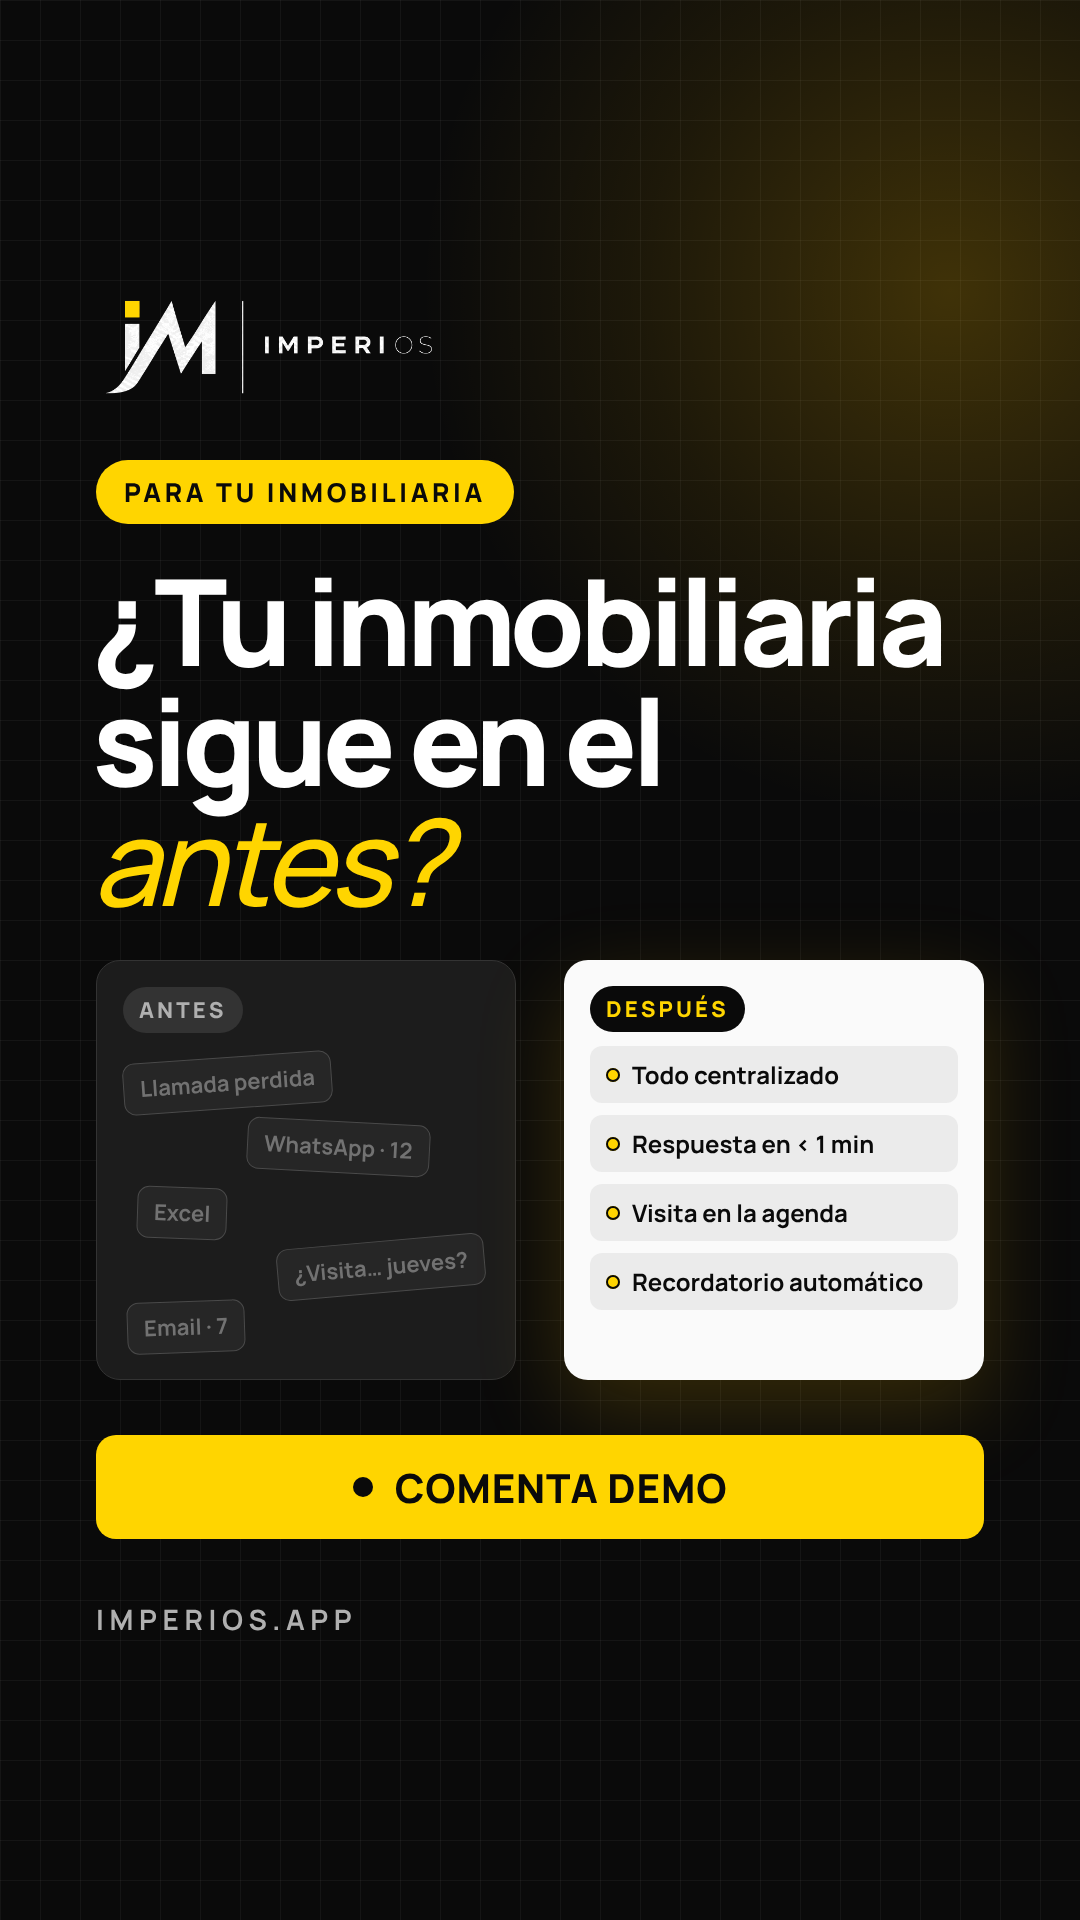
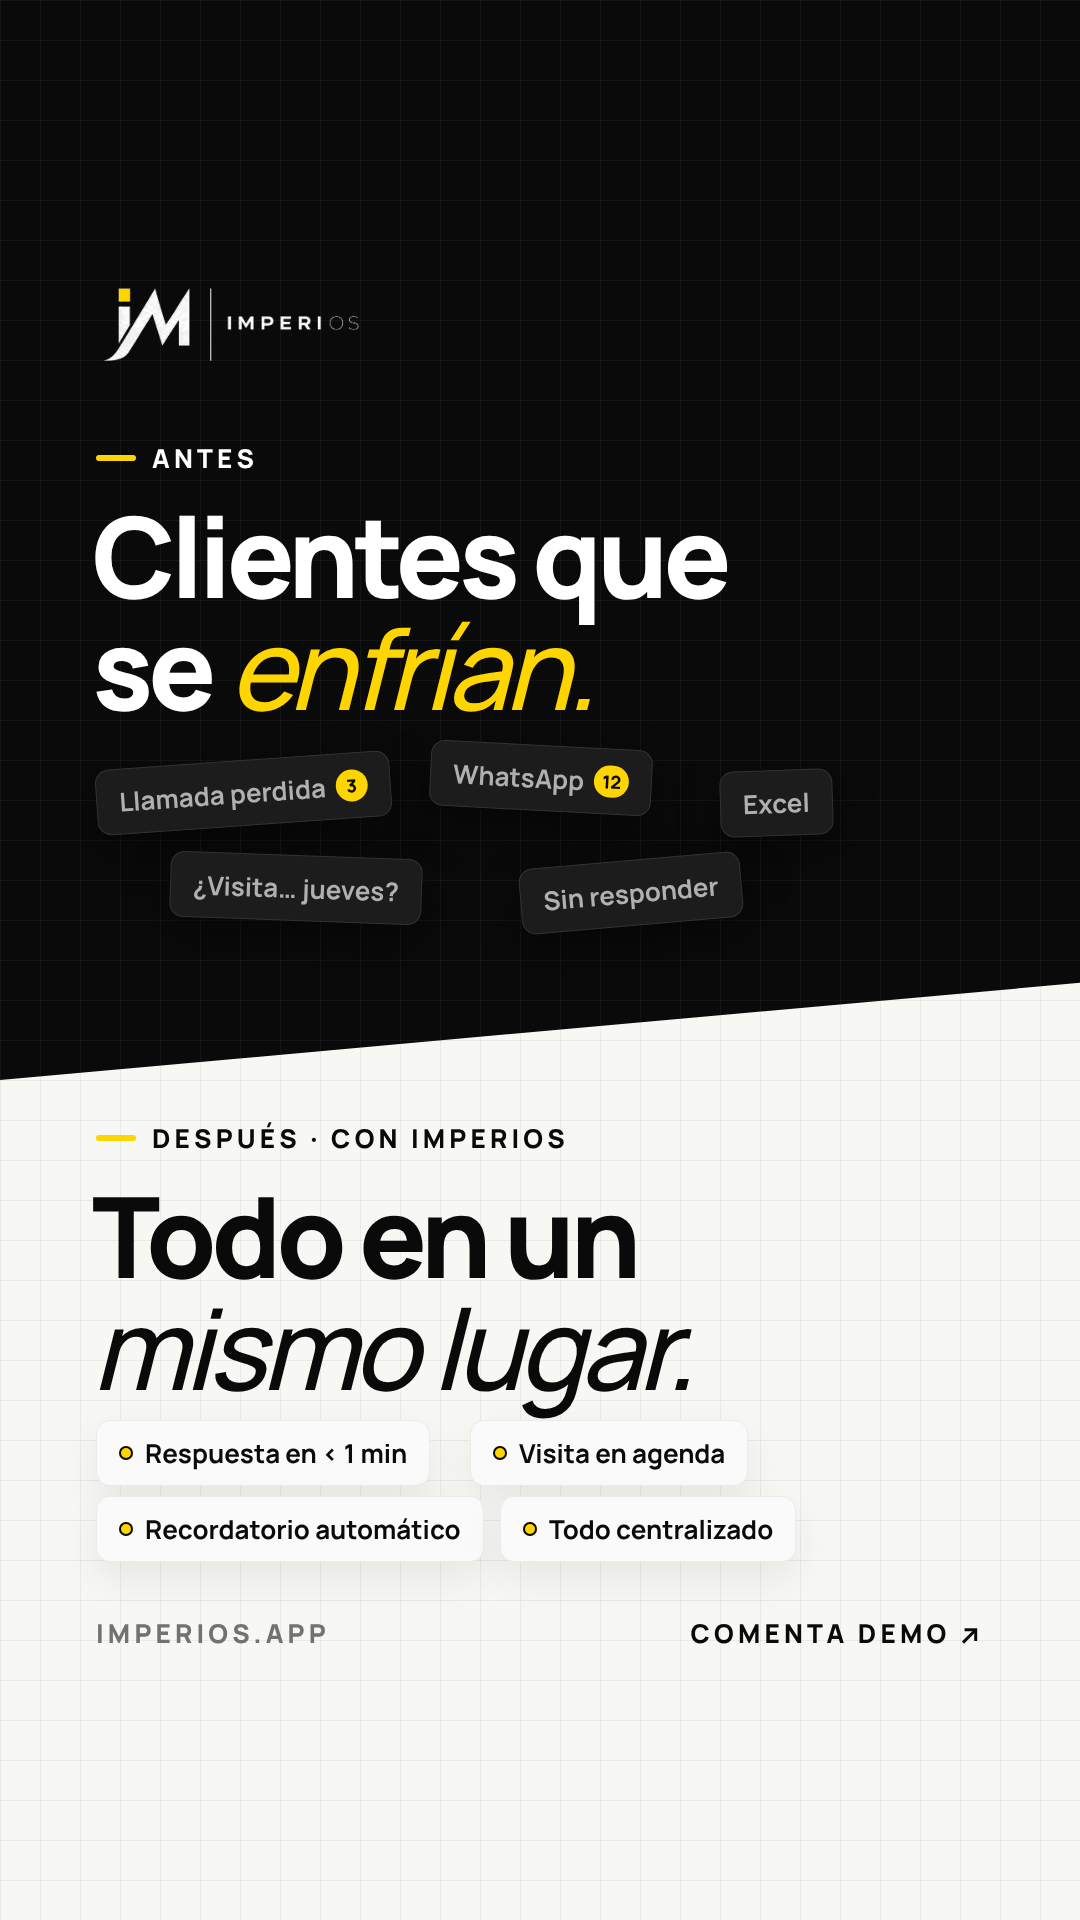
R6: portada nueva, antes oscuro / después claro con corte en diagonal (como el carrusel del feed)
Claude-Session: https://claude.ai/code/session_01GUwAx98LwDLChJJ4cX9B1a

diff --git a/ADV/ImperiOS Ad/preview/src/portada-r6.html b/ADV/ImperiOS Ad/preview/src/portada-r6.html
@@ -2,62 +2,58 @@
 <html lang="es">
 <head>
 <meta charset="utf-8">
-<title>Portada Reel — R6 Antes / después (oscura)</title>
-<!-- Portada 1080×1920 del Reel R6 en versión oscura, como la plantilla vertical-portada del kit de marca
-     (fondo negro, logo en blanco con la «i» amarilla, cursiva en amarillo #FFD500; brillo #FFC000 con transparencia).
-     Todo lo importante dentro del recorte 3:4 de la cuadrícula del perfil (y 240–1680). -->
+<title>Portada Reel — R6 Antes / después</title>
+<!-- Portada 1080×1920 del Reel R6. Mismo lenguaje que el carrusel del feed «¿Cansado de saltar entre herramientas?»:
+     arriba oscuro (el ANTES), corte en diagonal, abajo claro (el DESPUÉS con ImperiOS).
+     Logo en blanco sobre el negro; amarillo sólido #FFD500. Todo dentro del recorte 3:4 de la cuadrícula (y 240–1680). -->
 <style>
 @font-face { font-family: "Manrope"; src: url("manrope-latin-variable.woff2") format("woff2"); font-weight: 200 800; }
-:root { --ink-950:#0A0A0A; --ink-900:#1C1C1C; --ink-800:#333; --ink-500:#B0B0B0; --ink-700:#4A4A4A; --ink-600:#727272; --ink-300:#D4D4D4; --ink-200:#EBEBEB; --ink-100:#F7F7F3; --ink-50:#FAFAFA; --y:#FFD500; }
+:root { --ink-950:#0A0A0A; --ink-900:#1C1C1C; --ink-800:#333; --ink-700:#4A4A4A; --ink-600:#727272; --ink-500:#B0B0B0;
+  --ink-300:#D4D4D4; --ink-200:#EBEBEB; --ink-100:#F7F7F3; --ink-50:#FAFAFA; --y:#FFD500; }
 * { box-sizing: border-box; margin: 0; padding: 0; }
 html, body { width: 1080px; height: 1920px; overflow: hidden; }
-body { font-family: "Manrope", sans-serif; -webkit-font-smoothing: antialiased; position: relative; background: var(--ink-950); color: #fff; }
+body { font-family: "Manrope", sans-serif; -webkit-font-smoothing: antialiased; position: relative; background: var(--ink-100); color: var(--ink-950); }
 .abs { position: absolute; }
-.grid { position: absolute; inset: 0; background-image: linear-gradient(to right, rgba(255,255,255,.045) 1px, transparent 1px), linear-gradient(to bottom, rgba(255,255,255,.045) 1px, transparent 1px); background-size: 40px 40px; }
-.glow { position: absolute; right: -420px; top: -260px; width: 1100px; height: 1100px; border-radius: 50%; background: radial-gradient(circle, rgba(255,192,0,.22) 0, rgba(255,192,0,.08) 40%, rgba(255,192,0,0) 68%); }
-.logo { left: 96px; top: 290px; }
-.logo img { display: block; height: 110px; }
-.tag { left: 96px; top: 460px; display: inline-flex; padding: 14px 28px; border-radius: 999px; background: var(--y); color: var(--ink-950); font-weight: 800; font-size: 26px; letter-spacing: .14em; }
-h1 { position: absolute; left: 92px; top: 560px; right: 60px; font-weight: 800; font-size: 120px; line-height: 1.0; letter-spacing: -.045em; }
-h1 em { font-style: italic; font-weight: 500; color: var(--y); }
-.col { position: absolute; top: 960px; width: 420px; height: 420px; border-radius: 24px; padding: 26px; }
-.col .t { display: inline-block; padding: 8px 16px; border-radius: 999px; font-weight: 800; font-size: 22px; letter-spacing: .14em; }
-.mess { position: absolute; padding: 10px 16px; border-radius: 12px; background: #262626; border: 1.5px solid var(--ink-700); font-weight: 700; font-size: 22px; color: var(--ink-600); white-space: nowrap; }
-.ok { display: flex; align-items: center; gap: 12px; padding: 12px 16px; border-radius: 12px; background: var(--ink-200); font-weight: 700; font-size: 24px; color: var(--ink-950); margin-top: 12px; }
-.ok i { width: 14px; height: 14px; border-radius: 50%; background: var(--y); flex: none; box-shadow: 0 0 0 2px var(--ink-950) inset; }
-.panel { left: 96px; right: 96px; top: 1435px; height: 104px; border-radius: 20px; background: var(--y); color: var(--ink-950);
-  display: flex; align-items: center; justify-content: center; gap: 22px; font-weight: 800; font-size: 40px; letter-spacing: .02em; }
-.panel i { width: 20px; height: 20px; border-radius: 50%; background: var(--ink-950); }
-.web { left: 96px; top: 1600px; font-weight: 700; font-size: 28px; letter-spacing: .2em; color: var(--ink-500, #B0B0B0); }
+.dark { position: absolute; left: 0; right: 0; top: 0; height: 1080px; background-color: var(--ink-950); clip-path: polygon(0 0, 100% 0, 100% 91%, 0 100%);
+  background-image: linear-gradient(to right, rgba(255,255,255,.045) 1px, transparent 1px), linear-gradient(to bottom, rgba(255,255,255,.045) 1px, transparent 1px); background-size: 40px 40px; }
+.lgrid { position: absolute; inset: 0; background-image: linear-gradient(to right, rgba(10,10,10,.055) 1px, transparent 1px), linear-gradient(to bottom, rgba(10,10,10,.055) 1px, transparent 1px); background-size: 40px 40px; }
+.logo { left: 96px; top: 280px; }
+.logo img { display: block; height: 86px; }
+.lbl { display: flex; align-items: center; gap: 16px; font-weight: 800; font-size: 26px; letter-spacing: .16em; }
+.lbl i { width: 40px; height: 6px; border-radius: 3px; background: var(--y); }
+h1 { position: absolute; left: 92px; right: 60px; font-weight: 800; letter-spacing: -.045em; line-height: 1.0; }
+h1 em { font-style: italic; font-weight: 500; }
+.chip { position: absolute; padding: 14px 22px; border-radius: 14px; background: var(--ink-900); border: 1.5px solid var(--ink-800);
+  font-weight: 700; font-size: 26px; color: var(--ink-500); white-space: nowrap; display: flex; align-items: center; gap: 10px; box-shadow: 0 16px 40px rgba(0,0,0,.4); }
+.chip b { display: inline-grid; place-items: center; min-width: 32px; height: 32px; padding: 0 8px; border-radius: 16px; background: var(--y); color: var(--ink-950); font-size: 18px; }
+.ok { position: absolute; padding: 14px 22px; border-radius: 14px; background: var(--ink-50); border: 1.5px solid var(--ink-200);
+  font-weight: 700; font-size: 26px; display: flex; align-items: center; gap: 12px; box-shadow: 0 16px 40px rgba(10,10,10,.07); white-space: nowrap; }
+.ok i { width: 14px; height: 14px; border-radius: 50%; background: var(--y); box-shadow: 0 0 0 2px var(--ink-950) inset; }
+.foot { position: absolute; left: 96px; right: 96px; top: 1615px; display: flex; justify-content: space-between; font-weight: 800; font-size: 26px; letter-spacing: .16em; }
 </style>
 </head>
 <body>
-<div class="grid"></div>
-<div class="glow"></div>
+<div class="lgrid"></div>
+<div class="dark"></div>
+
+<!-- ANTES (oscuro) -->
 <div class="abs logo"><img src="../../assets_in/brand-kit/assets/logo-imperios-navbar-blanco.svg" alt="ImperiOS"></div>
-<div class="abs tag">PARA TU INMOBILIARIA</div>
-<h1>¿Tu inmobiliaria sigue en el <em>antes?</em></h1>
-<!-- antes: caos en grises -->
-<div class="col" style="left:96px;background:var(--ink-900);border:1.5px solid var(--ink-800)">
-  <span class="t" style="background:var(--ink-800);color:var(--ink-500)">ANTES</span>
-  <div class="mess" style="left:26px;top:96px;transform:rotate(-4deg)">Llamada perdida</div>
-  <div class="mess" style="left:150px;top:160px;transform:rotate(3deg)">WhatsApp · 12</div>
-  <div class="mess" style="left:40px;top:226px;transform:rotate(2deg)">Excel</div>
-  <div class="mess" style="left:180px;top:280px;transform:rotate(-5deg)">¿Visita… jueves?</div>
-  <div class="mess" style="left:30px;top:340px;transform:rotate(-2deg)">Email · 7</div>
-</div>
-<!-- después: orden -->
-<div class="col" style="left:564px;background:var(--ink-50);box-shadow:0 30px 90px rgba(255,192,0,.18)">
-  <span class="t" style="background:var(--ink-950);color:var(--y)">DESPUÉS</span>
-  <div style="margin-top:14px">
-    <div class="ok"><i></i>Todo centralizado</div>
-    <div class="ok"><i></i>Respuesta en &lt; 1 min</div>
-    <div class="ok"><i></i>Visita en la agenda</div>
-    <div class="ok"><i></i>Recordatorio automático</div>
-  </div>
-</div>
-<div class="abs panel"><i></i>COMENTA DEMO</div>
-<div class="abs web">IMPERIOS.APP</div>
+<div class="abs lbl" style="left:96px;top:440px;color:#fff"><i></i>ANTES</div>
+<h1 style="top:500px;font-size:112px;color:#fff">Clientes que<br>se <em style="color:var(--y)">enfrían.</em></h1>
+<div class="chip" style="left:96px;top:760px;transform:rotate(-4deg)">Llamada perdida<b>3</b></div>
+<div class="chip" style="left:430px;top:745px;transform:rotate(3deg)">WhatsApp<b>12</b></div>
+<div class="chip" style="left:720px;top:770px;transform:rotate(-2deg)">Excel</div>
+<div class="chip" style="left:170px;top:855px;transform:rotate(2deg)">¿Visita… jueves?</div>
+<div class="chip" style="left:520px;top:860px;transform:rotate(-5deg)">Sin responder</div>
+
+<!-- DESPUÉS (claro) -->
+<div class="abs lbl" style="left:96px;top:1120px"><i></i>DESPUÉS · CON IMPERIOS</div>
+<h1 style="top:1180px;font-size:112px">Todo en un<br><em>mismo lugar.</em></h1>
+<div class="ok" style="left:96px;top:1420px"><i></i>Respuesta en &lt; 1 min</div>
+<div class="ok" style="left:470px;top:1420px"><i></i>Visita en agenda</div>
+<div class="ok" style="left:96px;top:1496px"><i></i>Recordatorio automático</div>
+<div class="ok" style="left:500px;top:1496px"><i></i>Todo centralizado</div>
+<div class="foot"><span style="color:var(--ink-600)">IMPERIOS.APP</span><span>COMENTA DEMO ↗</span></div>
 <script>
 window.ready = document.fonts.ready.then(() => Promise.all([...document.images].map(i => i.complete ? 0 : new Promise(r => i.onload = r))));
 </script>
